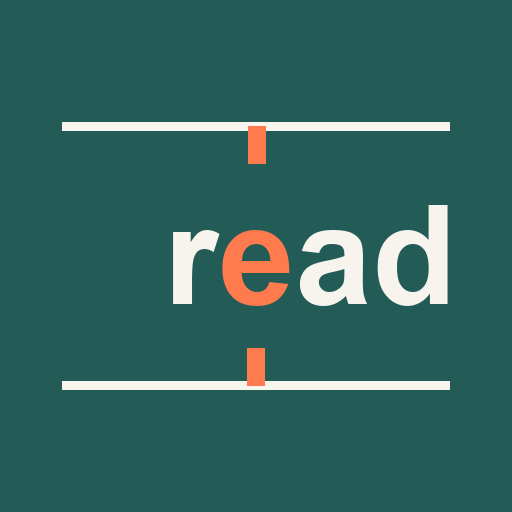
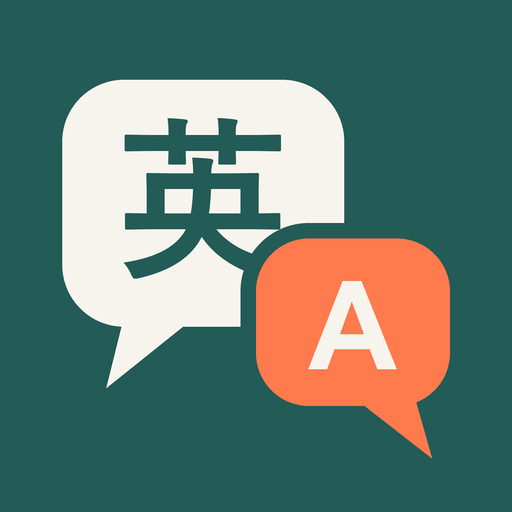
単語学習で単語を自動再生・例文を再生

diff --git a/js/vocabView.js b/js/vocabView.js
@@ -256,11 +256,12 @@ async function wordSheet(word, host) {
         <button class="icon-btn speak" data-a="speak" aria-label="発音を聞く">${icons.speaker}</button></div>${dots(vocab.strength(e))}</div>
       <div class="dict-pron">${e.pron ? `/${esc(e.pron)}/` : ''}</div>
       <div class="dict-body"><ol>${senses(e.meaning).map((s) => `<li>${fmtSense(s)}</li>`).join('') || '<li class="muted">（英和辞書に未収録）</li>'}</ol></div>
-      ${e.ctx ? `<blockquote class="w-ctx">${contextHtml(e)}<cite>${esc(e.bookTitle || '')}</cite></blockquote>` : ''}
+      ${e.ctx ? `<blockquote class="w-ctx">${contextHtml(e)}<cite>${esc(e.bookTitle || '')}</cite></blockquote><button class="link-btn ctx-say" data-a="say-ctx">🔊 例文を聞く</button>` : ''}
       <p class="muted small">${e.source === 'deck' ? '単語デッキから' : `調べた回数 ${e.seen}回`} · 次の復習 ${whenLabel(e.due)}</p>
       <div class="sheet-actions"><button class="btn danger-ghost" data-a="del">単語帳から削除</button><button class="btn ghost" data-a="close">閉じる</button></div>
     </div>`);
   panel.querySelector('[data-a=speak]').onclick = () => say(e.word, host.settings);
+  panel.querySelector('[data-a=say-ctx]')?.addEventListener('click', () => say(e.ctx.join(' '), host.settings));
   panel.querySelector('[data-a=close]').onclick = () => closeSheet();
   panel.querySelector('[data-a=del]').onclick = async () => {
     await vocab.remove(word);
@@ -298,6 +299,8 @@ export async function startReview(host) {
   const isNew = (e) => e.source === 'deck' && e.reps === 0 && e.lapses === 0;
   const cardType = (e) => (e.reps >= 2 && e.reps % 2 === 0 && e.ctx ? 'cloze' : 'meaning');
   const speakBtn = '<button class="icon-btn speak" data-a="speak" aria-label="発音を聞く">' + icons.speaker + '</button>';
+  const ctxBtn = '<button class="link-btn ctx-say" data-a="say-ctx">🔊 例文を聞く</button>';
+  let spokenAt = -1; // queue position whose word was already read out automatically
 
   function header(left) {
     return `<header class="rv-top"><button class="icon-btn" data-a="back" aria-label="閉じる">${icons.back}</button>
@@ -326,10 +329,10 @@ export async function startReview(host) {
         : `<div class="rv-label">${isNew(e) ? `<span class="new-tag">新しい単語${e.band ? ` Lv${e.band}` : ''}</span> 意味がわかりますか？` : '意味は？'}</div>
            <div class="rv-word">${esc(e.word)} ${speakBtn}</div>
            ${e.pron ? `<div class="rv-pron">/${esc(e.pron)}/</div>` : ''}
-           ${e.ctx ? `<p class="rv-ctx">${contextHtml(e)}</p>` : ''}`;
+           ${e.ctx ? `<p class="rv-ctx">${contextHtml(e)}</p>${ctxBtn}` : ''}`;
     const back = revealed
       ? `<div class="rv-answer">
-          ${type === 'cloze' ? `<div class="rv-word">${esc(e.word)} ${speakBtn}</div>${e.pron ? `<div class="rv-pron">/${esc(e.pron)}/</div>` : ''}<p class="rv-ctx">${contextHtml(e)}</p>` : ''}
+          ${type === 'cloze' ? `<div class="rv-word">${esc(e.word)} ${speakBtn}</div>${e.pron ? `<div class="rv-pron">/${esc(e.pron)}/</div>` : ''}<p class="rv-ctx">${contextHtml(e)}</p>${ctxBtn}` : ''}
           <ol>${senses(e.meaning, 5).map((s) => `<li>${fmtSense(s)}</li>`).join('') || '<li class="muted">（英和辞書に未収録）</li>'}</ol>
           ${e.bookTitle ? `<cite>${esc(e.bookTitle)}</cite>` : ''}
         </div>`
@@ -343,7 +346,13 @@ export async function startReview(host) {
     el.querySelector('[data-a=back]').onclick = () => popLayer();
     el.querySelector('[data-a=show]')?.addEventListener('click', reveal);
     el.querySelectorAll('[data-a=speak]').forEach((b) => (b.onclick = () => say(e.word, host.settings)));
+    el.querySelectorAll('[data-a=say-ctx]').forEach((b) => (b.onclick = () => say(e.ctx.join(' '), host.settings)));
     el.querySelectorAll('[data-g]').forEach((b) => (b.onclick = () => answer(Number(b.dataset.g))));
+    // Read the word out once when its card opens (not on a fill-in-the-blank card: that would give the answer away).
+    if (!revealed && type === 'meaning' && spokenAt !== idx && host.settings.autoSpeakWord) {
+      spokenAt = idx;
+      say(e.word, host.settings);
+    }
   }
 
   /** After a miss: say it aloud 3 times (word, then the example sentence). */
@@ -355,7 +364,7 @@ export async function startReview(host) {
         <div class="rv-word">${esc(e.word)} ${speakBtn}</div>
         ${e.pron ? `<div class="rv-pron">/${esc(e.pron)}/</div>` : ''}
         <div class="rv-answer"><ol>${senses(e.meaning, 2).map((s) => `<li>${fmtSense(s)}</li>`).join('')}</ol></div>
-        ${e.ctx ? `<p class="rv-ctx">${contextHtml(e)}</p><button class="link-btn" data-a="say-ctx">例文を聞く</button>` : ''}
+        ${e.ctx ? `<p class="rv-ctx">${contextHtml(e)}</p>${ctxBtn}` : ''}
         <p class="muted small">意味をイメージしながら読むと定着しやすくなります。</p>
       </div>
       <div class="rv-actions">
@@ -376,7 +385,7 @@ export async function startReview(host) {
   function reveal() {
     revealed = true;
     render();
-    if (cardType(card()) === 'cloze') say(card().word, host.settings);
+    if (host.settings.autoSpeakWord) say(card().word, host.settings);
   }
 
   async function answer(g) {

diff --git a/js/app.js b/js/app.js
@@ -19,7 +19,7 @@ const DEFAULT_SETTINGS = {
   theme: 'system', goal: 3000, dictMode: 'ja', proxy: '', showJa: false, mmEmail: '', voice: '', autoSaveWords: true,
   listen: false, comprehensionCheck: true,
   goalWpm: goals.DEFAULT_GOAL.wpm, goalComp: goals.DEFAULT_GOAL.comp, readAloudGoal: 5,
-  wordGoal: 50, readAloudOnMiss: true, hideText: false,
+  wordGoal: 50, readAloudOnMiss: true, autoSpeakWord: true, hideText: false,
   daily: structuredClone(DEFAULT_DAILY),
 };
 const LEVELS = {
@@ -266,7 +266,7 @@ function viewLibrary() {
   const reading = S.shelf.filter((b) => !b.finished).sort((a, b) => b.lastReadAt - a.lastReadAt);
   const done = S.shelf.filter((b) => b.finished).sort((a, b) => b.lastReadAt - a.lastReadAt);
   const header = `<header class="top">
-      <div><h1>RSVP多読</h1><p class="muted">累計 <b>${fmt(sum.words)}</b> 語</p></div>
+      <div><h1>本棚</h1><p class="muted">累計 <b>${fmt(sum.words)}</b> 語</p></div>
       <div class="today">${ring(sum.today.w / S.settings.goal)}<div><small>今日</small><b>${fmt(sum.today.w)}</b><small>/ ${fmt(S.settings.goal)}語</small></div></div>
     </header>`;
   if (!S.shelf.length) {
@@ -512,6 +512,7 @@ function viewSettings() {
       <div class="row"><span>目標の理解度</span>${seg('goalComp', [[60, '60%'], [70, '70%'], [80, '80%'], [90, '90%']])}</div>
       <div class="row"><span>辞書</span>${seg('dictMode', [['ja', '英和'], ['en', '英英']])}</div>
       <label class="row"><span>1日の単語学習の目標<small>復習と新しい単語の合計回数</small></span><input type="number" id="wordGoal" min="5" max="500" step="5" inputmode="numeric" value="${s.wordGoal}"></label>
+      <label class="row"><span>単語を自動で読み上げる<small>学習で単語のカードを開いたときと「答えを見る」を押したときに、発音を1回ずつ再生します（例文は🔊で再生）</small></span><input type="checkbox" class="switch" id="autoSpeakWord" ${s.autoSpeakWord ? 'checked' : ''}></label>
       <label class="row"><span>間違えたら音読3回<small>復習で「もう一度」を選んだとき、発音を聞いて声に出して読む練習をはさみます</small></span><input type="checkbox" class="switch" id="readAloudOnMiss" ${s.readAloudOnMiss ? 'checked' : ''}></label>
       <label class="row"><span>調べた単語を単語帳に保存<small>辞書で引いた単語を、出てきた英文と一緒に自動で保存します</small></span><input type="checkbox" class="switch" id="autoSaveWords" ${s.autoSaveWords ? 'checked' : ''}></label>
       <label class="stack"><span>読み上げ音声<small>辞書の🔊で使う英語の音声</small></span>
@@ -631,7 +632,7 @@ function bindView(view) {
   if (wpm) {
     wpm.addEventListener('input', () => ($('#wpm-val').textContent = wpm.value));
     wpm.addEventListener('change', () => saveSettings({ wpm: Number(wpm.value) }));
-    for (const id of ['rewind', 'orp', 'showJa', 'autoSaveWords', 'listen', 'comprehensionCheck', 'readAloudOnMiss', 'hideText']) $(`#${id}`).addEventListener('change', (e) => saveSettings({ [id]: e.target.checked }));
+    for (const id of ['rewind', 'orp', 'showJa', 'autoSaveWords', 'listen', 'comprehensionCheck', 'readAloudOnMiss', 'autoSpeakWord', 'hideText']) $(`#${id}`).addEventListener('change', (e) => saveSettings({ [id]: e.target.checked }));
     $('#goal').addEventListener('change', (e) => saveSettings({ goal: Math.max(100, Number(e.target.value) || DEFAULT_SETTINGS.goal) }));
     $('#wordGoal').addEventListener('change', (e) => saveSettings({ wordGoal: Math.min(500, Math.max(5, Number(e.target.value) || DEFAULT_SETTINGS.wordGoal)) }));
     $('#goalWpm').addEventListener('change', (e) => saveSettings({ goalWpm: Math.min(600, Math.max(50, Number(e.target.value) || DEFAULT_SETTINGS.goalWpm)) }));

diff --git a/js/daily.js b/js/daily.js
@@ -256,8 +256,8 @@ function googleCalendarUrl(hhmm) {
   const end = new Date(start.getTime() + 15 * 60000);
   const q = new URLSearchParams({
     action: 'TEMPLATE',
-    text: '英語の学習（RSVP多読）',
-    details: 'RSVP多読の「今日」タブでチェックリストを確認しましょう。',
+    text: '英語の学習（英語学習アプリ）',
+    details: '英語学習アプリの「今日」タブでチェックリストを確認しましょう。',
     dates: `${stamp(start)}/${stamp(end)}`,
     recur: 'RRULE:FREQ=DAILY',
   });
@@ -270,7 +270,7 @@ function downloadIcs(hhmm) {
   const ics = [
     'BEGIN:VCALENDAR', 'VERSION:2.0', 'PRODID:-//RSVP Tadoku//JA', 'BEGIN:VEVENT',
     `UID:rsvp-daily-${Date.now()}@rsvp-reader`, `DTSTAMP:${utc}`, `DTSTART:${stamp(start)}`, 'DURATION:PT15M', 'RRULE:FREQ=DAILY',
-    'SUMMARY:英語の学習（RSVP多読）', 'DESCRIPTION:「今日」タブでチェックリストを確認しましょう。',
+    'SUMMARY:英語の学習（英語学習アプリ）', 'DESCRIPTION:「今日」タブでチェックリストを確認しましょう。',
     'BEGIN:VALARM', 'TRIGGER:PT0M', 'ACTION:DISPLAY', 'DESCRIPTION:英語の学習の時間です', 'END:VALARM',
     'END:VEVENT', 'END:VCALENDAR',
   ].join('\r\n');

diff --git a/index.html b/index.html
@@ -4,8 +4,8 @@
   <meta charset="utf-8">
   <meta name="viewport" content="width=device-width, initial-scale=1, viewport-fit=cover">
   <meta name="theme-color" content="#f7f4ee">
-  <meta name="description" content="RSVP（高速逐次提示）で英語の多読ができるリーダー">
-  <title>RSVP多読</title>
+  <meta name="description" content="多読・単語・文法・リスニング・スピーキングを1つで学ぶ英語学習アプリ">
+  <title>英語学習</title>
   <link rel="manifest" href="manifest.webmanifest">
   <link rel="icon" href="icons/icon-192.png">
   <link rel="apple-touch-icon" href="icons/icon-192.png">

diff --git a/app.css b/app.css
@@ -840,3 +840,4 @@ mark { background: var(--accent-soft); color: inherit; border-radius: 3px; paddi
 .gm-bar b { display: block; height: 100%; background: var(--primary); }
 .gm-list.open .gm-ch { border-bottom: 1px solid var(--line); }
 .gm-list { margin-bottom: 8px; }
+.ctx-say { align-self: flex-start; text-decoration: none; color: var(--primary); font-size: 13.5px; padding: 2px 0; }

diff --git a/sw.js b/sw.js
@@ -1,5 +1,5 @@
 // Offline support. App shell: stale-while-revalidate. Books, dictionary, catalog: cache-first.
-const SHELL_CACHE = 'shell-v13';
+const SHELL_CACHE = 'shell-v15';
 const DATA_CACHE = 'data-v1'; // bump only when bundled books/dictionary change
 const SHELL = [
   './', 'index.html', 'app.css', 'manifest.webmanifest',

diff --git a/tools/make_icons.py b/tools/make_icons.py
@@ -1,16 +1,17 @@
-"""Generate the PWA icons (a word with a highlighted pivot letter between two guide ticks)."""
+"""Generate the PWA icons: two speech bubbles, 「英」 and "A" (Japanese <-> English), on the app's teal."""
 from pathlib import Path
 
 from PIL import Image, ImageDraw, ImageFont
 
 OUT = Path(__file__).resolve().parent.parent / "icons"
 BG = (35, 91, 86)
-FG = (247, 244, 238)
+CREAM = (247, 244, 238)
 ACCENT = (255, 122, 77)
+SS = 4  # draw large and scale down for smooth edges
 
 
-def font(size):
-    for name in ("arialbd.ttf", "DejaVuSans-Bold.ttf", "Arial Bold.ttf"):
+def font(names, size):
+    for name in names:
         try:
             return ImageFont.truetype(name, size)
         except OSError:
@@ -18,35 +19,44 @@ def font(size):
     return ImageFont.load_default()
 
 
+def bubble(d, box, radius, tail, fill):
+    """Rounded speech bubble; tail = three points of the little triangle."""
+    d.rounded_rectangle(box, radius=radius, fill=fill)
+    d.polygon(tail, fill=fill)
+
+
 def draw_icon(size, safe):
-    """safe: fraction of the canvas the artwork may use (maskable icons need padding)."""
-    img = Image.new("RGB", (size, size), BG)
+    """safe: fraction of the canvas the artwork may use (maskable icons need more padding)."""
+    S = size * SS
+    img = Image.new("RGB", (S, S), BG)
     d = ImageDraw.Draw(img)
-    cx, cy = size / 2, size / 2
-    span = size * safe
-    # Guide lines with a notch above and below the pivot.
-    lw = max(2, round(size * 0.018))
-    gy = span * 0.28
-    d.line([(cx - span * 0.42, cy - gy), (cx + span * 0.42, cy - gy)], fill=FG, width=lw)
-    d.line([(cx - span * 0.42, cy + gy), (cx + span * 0.42, cy + gy)], fill=FG, width=lw)
-    d.line([(cx, cy - gy), (cx, cy - gy + span * 0.08)], fill=ACCENT, width=lw * 2)
-    d.line([(cx, cy + gy), (cx, cy + gy - span * 0.08)], fill=ACCENT, width=lw * 2)
-    # "read" with the pivot letter "e" centered.
-    f = font(round(span * 0.3))
-    left, pivot, right = "r", "e", "ad"
-    pw = d.textlength(pivot, font=f)
-    lw_ = d.textlength(left, font=f)
-    x0 = cx - pw / 2 - lw_
-    y = cy
-    d.text((x0, y), left, font=f, fill=FG, anchor="lm")
-    d.text((x0 + lw_, y), pivot, font=f, fill=ACCENT, anchor="lm")
-    d.text((x0 + lw_ + pw, y), right, font=f, fill=FG, anchor="lm")
-    return img
+    span = S * safe
+    ox = oy = (S - span) / 2  # top-left of the artwork area
+    u = span / 100  # artwork units: 100 x 100
+
+    # Big cream bubble with 「英」 (upper left), tail at bottom left.
+    bx0, by0, bx1, by1 = ox + 6 * u, oy + 10 * u, ox + 70 * u, oy + 66 * u
+    bubble(d, (bx0, by0, bx1, by1), 14 * u,
+           [(bx0 + 14 * u, by1 - 2 * u), (bx0 + 30 * u, by1 - 2 * u), (bx0 + 10 * u, by1 + 14 * u)], CREAM)
+    kanji = font(["YuGothB.ttc", "meiryob.ttc", "msgothic.ttc"], round(40 * u))
+    d.text(((bx0 + bx1) / 2, (by0 + by1) / 2 + 1 * u), "英", font=kanji, fill=BG, anchor="mm")
+
+    # Small orange bubble with "A" (lower right), outlined in teal so it sits on top of the big one.
+    sx0, sy0, sx1, sy1 = ox + 50 * u, oy + 46 * u, ox + 94 * u, oy + 84 * u
+    ring = 3.5 * u
+    tail = [(sx1 - 22 * u, sy1 - 2 * u), (sx1 - 8 * u, sy1 - 2 * u), (sx1 - 4 * u, sy1 + 12 * u)]
+    bubble(d, (sx0 - ring, sy0 - ring, sx1 + ring, sy1 + ring), 12 * u + ring,
+           [(x, y + ring * (1 if k == 2 else 0)) for k, (x, y) in enumerate(tail)], BG)
+    bubble(d, (sx0, sy0, sx1, sy1), 12 * u, tail, ACCENT)
+    latin = font(["arialbd.ttf", "DejaVuSans-Bold.ttf"], round(28 * u))
+    d.text(((sx0 + sx1) / 2, (sy0 + sy1) / 2 + 1 * u), "A", font=latin, fill=CREAM, anchor="mm")
+
+    return img.resize((size, size), Image.LANCZOS)
 
 
 if __name__ == "__main__":
     OUT.mkdir(exist_ok=True)
-    draw_icon(192, 0.9).save(OUT / "icon-192.png")
-    draw_icon(512, 0.9).save(OUT / "icon-512.png")
-    draw_icon(512, 0.7).save(OUT / "icon-maskable-512.png")
+    draw_icon(192, 0.86).save(OUT / "icon-192.png")
+    draw_icon(512, 0.86).save(OUT / "icon-512.png")
+    draw_icon(512, 0.66).save(OUT / "icon-maskable-512.png")
     print("icons written to", OUT)

diff --git a/README.md b/README.md
@@ -1,6 +1,6 @@
-# RSVP多読
+# 英語学習
 
-RSVP（Rapid Serial Visual Presentation：単語を1語ずつ画面中央に高速表示する方式）で英語の多読をするための、Android向けWebアプリ（PWA）です。Chromeで開いて「ホーム画面に追加」すると、普通のアプリのように全画面・オフラインで使えます。
+RSVP（Rapid Serial Visual Presentation：単語を1語ずつ画面中央に高速表示する方式）での多読を中心に、単語・英文法・シャドーイング・瞬間英作文・スピーチまで1つで学べる、Android向けWebアプリ（PWA）です。Chromeで開いて「ホーム画面に追加」すると、普通のアプリのように全画面・オフラインで使えます。
 
 ## 機能
 
